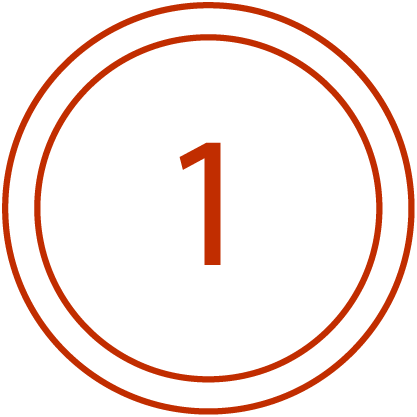
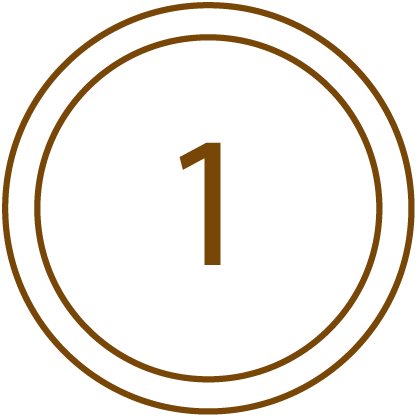
1

diff --git a/css/style.css b/css/style.css
@@ -21,17 +21,13 @@ h5, #contact ul li span:first-child { font-family: 'open_sanssemibold'; }
 
 /* home > rojos */
 #header ul li:nth-child(1).current a,
-#header ul li:nth-child(1) a:hover { color: #FF9D00; }
+#header ul li:nth-child(1) a:hover { color: #E3AE27; }
 
- /*        #intro { background-color: #BF7600; color: #ffebcc; }
-       #intro a {                            color: #ffebcc; }
-  #colaboration { background-color: #FF9D00; color: #663f00; }
-#colaboration a {                            color: #663f00; }*/
+         #intro { background-color: #DB810D; color: #fef4e7; }
+       #intro a {                            color: #fef4e7; }
+  #colaboration { background-color: #E3AE27; color: #784707; }
+#colaboration a {                            color: #784707; }
 
-         #intro { background-color: rgb(191, 118, 0); color: rgb(255, 235, 204); }
-       #intro a {                            color: rgb(255, 235, 204); }
-  #colaboration { background-color: rgb(255, 157, 0); color: rgb(102, 63, 0); }
-#colaboration a {                            color: rgb(102, 63, 0) }
 
 /* services > azules */
 #header ul li:nth-child(2).current a,
@@ -278,12 +274,10 @@ html[lang|=ca] #menu:after { content: 'selecciona un altre idioma'; }*/
 	}
 
 
-#main > div > img {
+#main img {
 	display: block;
-	width: 90%;
-	max-width: 30em;
-	margin-top: 2em;
-	margin-bottom: 3em;
+	margin-top: 4em;
+	margin-bottom: 6em;
 	margin-left: auto;
 	margin-right: auto;
 	}
@@ -292,7 +286,8 @@ html[lang|=ca] #menu:after { content: 'selecciona un altre idioma'; }*/
 	margin-bottom: 1em;
 	}
 #main h3 {
-	font-size: 2.5em;
+	font-size: 2em;
+	margin-top: 1em;
 	margin-bottom: 1em;
 	}
 #main p {
@@ -305,8 +300,16 @@ html[lang|=ca] #menu:after { content: 'selecciona un altre idioma'; }*/
 	line-height: 1.3em;
 	margin-bottom: 1.2em;
 	}
-
-
+#main > div > ul li {
+	margin-bottom: .7em;
+	}
+#main > div > ul li:before {
+	content: '-';
+	margin-right: .3em;
+	}
+/*anular propiedades para contact*/
+#main > #contact > ul li { margin-bottom: 0; }
+#main > #contact > ul li:before { display: none; }
 
 
 
@@ -319,7 +322,7 @@ html[lang|=ca] #menu:after { content: 'selecciona un altre idioma'; }*/
 #footer {
 	padding-top: 2em;
 	padding-right: 1em;
-	padding-bottom: .5 em;
+	padding-bottom: .5em;
 	padding-left: 1em;
 	text-align: center;
 	}
@@ -345,6 +348,11 @@ html[lang|=ca] #menu:after { content: 'selecciona un altre idioma'; }*/
 
 
 /* específico de home */
+
+#intro > img {
+	width: 100%;
+	max-width: 30em;
+	}
 
 #colaboration > div {
 	margin-bottom: 4em;
@@ -397,7 +405,12 @@ html[lang|=ca] #menu:after { content: 'selecciona un altre idioma'; }*/
 
 
 
+/* específico de experiencia */
 
+#main > #improvement > img {
+	width: 90%;
+	max-width: 30em;
+	}
 
 
 
@@ -620,11 +633,11 @@ html[lang|=ca] #menu:after { content: 'selecciona un altre idioma'; }*/
 	vertical-align: top;
 	}
 #methodology > div > div:nth-child(even) {
-	margin-left: 4.5%
+	margin-left: 4.5%;
 	}
 
 #methodology > div > div > p {
-	font-size: 1.1em
+	font-size: 1.1em;
 	}
 
 
@@ -713,18 +726,21 @@ html[lang|=ca] #menu:after { content: 'selecciona un altre idioma'; }*/
 	padding-top: 4.3em;
 	}
 
-#main > div > * {
-	max-width: 40em;
+#main > div * {
 	margin-left: auto;
 	margin-right: auto;
 	}
+#main > div h2 { max-width: 17.3em; }
+#main > div h3 { max-width: 25.9em; }
 
-#main > div > h2 {
-	max-width: 17.2em;
+#main > div img,
+#main > div p,
+#main > div ul,
+#main > div div {
+	max-width: 40em;
 	}
-#main > div > h3 {
-	max-width: 20.7em;
-	}
+
+
 
 
 

diff --git a/experienci.html b/experienci.html
@@ -50,10 +50,11 @@
 	</div>
 	<div id="improvement">
 		<h2>Millora Continua</h2>
-			<p>Assolir la situació òptima en les operacions requereix crear un flux d’informació fiable que involucri tot l’equip de treball amb una mentalitat positiva per resoldre els problemes i una continua comparació entre el que s’ha fet i el que s’hauria d’haver fet en termes d’eficiència, productivitat, costos…</p>
-			<p>Aconseguir  l’eficiència i l’efectivitat mitjançant un procés continu de feed back que integri el mix de producció, els rendiments y les mesures de millora en la rutina diària de la fàbrica</p>
-			<p>Fent això serem capaços de detectar els problemes i implementar mesures correctores i al mateix temps construirem una base sòlida de confiança y de treball en equip i serem capaços d’aprendre de nosaltres mateixos</p>
-		<p>Aspectes analitzats:</p>
+		<p>Assolir la situació òptima en les operacions requereix crear un flux d’informació fiable que involucri tot l’equip de treball amb una mentalitat positiva per resoldre els problemes i una continua comparació entre el que s’ha fet i el que s’hauria d’haver fet en termes d’eficiència, productivitat, costos…</p>
+		<img src="./img/continuous.png">
+		<p>Aconseguir  l’eficiència i l’efectivitat mitjançant un procés continu de feed back que integri el mix de producció, els rendiments y les mesures de millora en la rutina diària de la fàbrica</p>
+		<p>Fent això serem capaços de detectar els problemes i implementar mesures correctores i al mateix temps construirem una base sòlida de confiança y de treball en equip i serem capaços d’aprendre de nosaltres mateixos</p>
+		<p>Aspectes analitzats</p>
 		<ul>
 			<li>Port foli de productes</li>
 			<li>Estructura de producció</li>

diff --git a/experiencia.html b/experiencia.html
@@ -50,11 +50,12 @@
 		</ul>
 	</div>
 	<div id="improvement">
-		<h2>Continuous Improvement</h2>
+		<h2>Mejora continua</h2>
 		<p>Alcanzar la situación óptima en las operaciones requiere crear un flujo de información fiable que involucre a todo el equipo de trabajo con una mentalidad positiva para resolver los problemas y una continua comparación entre lo que se ha hechor respecto a lo que se debería haber hecho en base a los estándares establecidos en términos de eficiencia, productividad, costes…</p>
+		<img src="./img/continuous.png">
 		<p>Conseguir la eficiencia y la efectividad a través de un proceso continuo de feed-back que integre el mix de producción, los rendimientos y las medidas de mejora en el día día de la fábrica.</p>
 		<p>Haciendo esto seremos capaces de detectar los problemas e implementar medidas correctoras y al mismo tiempo construiremos una base sólida de confianza y de trabajo en equipo y que seremos capaces de aprender de nosotros mismos</p>
-		<p>Aspectos analizados:</p>
+		<h3>Aspectos analizados</h3>
 		<ul>
 			<li>Portfolio de productos</li>
 			<li>Estructura de producción</li>

diff --git a/inicio.html b/inicio.html
@@ -33,6 +33,7 @@
 <div id="main">
 	<div id="intro">
 		<p>Somos un grupo de ingenieros y economistas con una amplia experiencia en la mejora y la optimización de las operaciones de la Supply -chain.</p>
+		<img src="./img/intro.png">
 		<p>Nuestra especialidad i experiencia está centrada en el campo de: Dirección de operaciones, Controlling Industrial, Organización industrial, control presupuestario, mejora de la eficiencia y la productividad, packaging engineering, planificación, logística y benchmarking, conseguida a través de la experiencia laboral en distintas Supply Chain de Henkel.</p>
 		<p>Les ofrecemos nuestra visión objetiva y nuestra capacidad de síntesis para encarar las complejas situaciones que se plantean en la Supply Chain.</p>
 		<p>Clarificar y sintetizar la situación actual, identificar potenciales áreas de mejora.</p> 

diff --git a/inici.html b/inici.html
@@ -33,6 +33,7 @@
 <div id="main">
 	<div id="intro">
 		<p>Som un grup d’enginyers i  profesionals amb una amplia experiència en la millora i optimització de les operacions a la Supply -chain.</p>
+		<img src="./img/intro.png">
 		<p>La nostra àrea d’especialitat està centrada en el camp de: Direcció d’operacions, Controlling Industrial, control pressupostari, millora de l’eficiència i la productivitat, packaging engineering, planificació, logística i benchmarking, aconseguida a través de l’experiència laboral a les diferents Supply Chains de Henkel.</p>
 		<p>Us oferim la nostra visió objectiva y la nostra capacitat de síntesi per tal d’encara les situacions complexes que planteja la Supply Chain.</p>
 		<p>Clarificar i sintetitzar la realitat, identificar les àrees de millora.</p> 

diff --git a/home.html b/home.html
@@ -33,6 +33,7 @@
 <div id="main">
 	<div id="intro">
 		<p>We are a group of managers with a wide background experience in improving and optimizing Supply Chain operations.</p>
+		<img src="./img/intro.png">
 		<p>Our core areas of expertise are in the field of: Operations Management, Cost controlling, Industrial Engineering, Budgeting, productivity and efficiency improvement, Packaging engineering, planning, logistics and Benchmarking, achieved through working experience in Henkel international companies in the field of Supply Chain. </p>
 		<p>We offer you our objective view and synthesis capacity to face future Supply Chain complex challenges.</p> 
 		<p>Clarifying the reality, identifying the areas of improvement to significantly improve performance and profitability.</p> 

diff --git a/experience.html b/experience.html
@@ -56,7 +56,7 @@
 		<img src="./img/continuous.png">
 		<p>Achieving Efficiency effectiveness through a continuous feed back process that integrates product mix, Performances, and improvement measures into the daily work</p>
 		<p>By doing so, we will be able to detect problems and implement corrective measures and at the same time we will build an strong base of trust and teamwork as we will be able to learn from ourselves</p>
-		<p>Analized aspects:</p>
+		<h3>Analized aspects</h3>
 		<ul>
 			<li>Product portfolio</li>
 			<li>Production structure </li>
